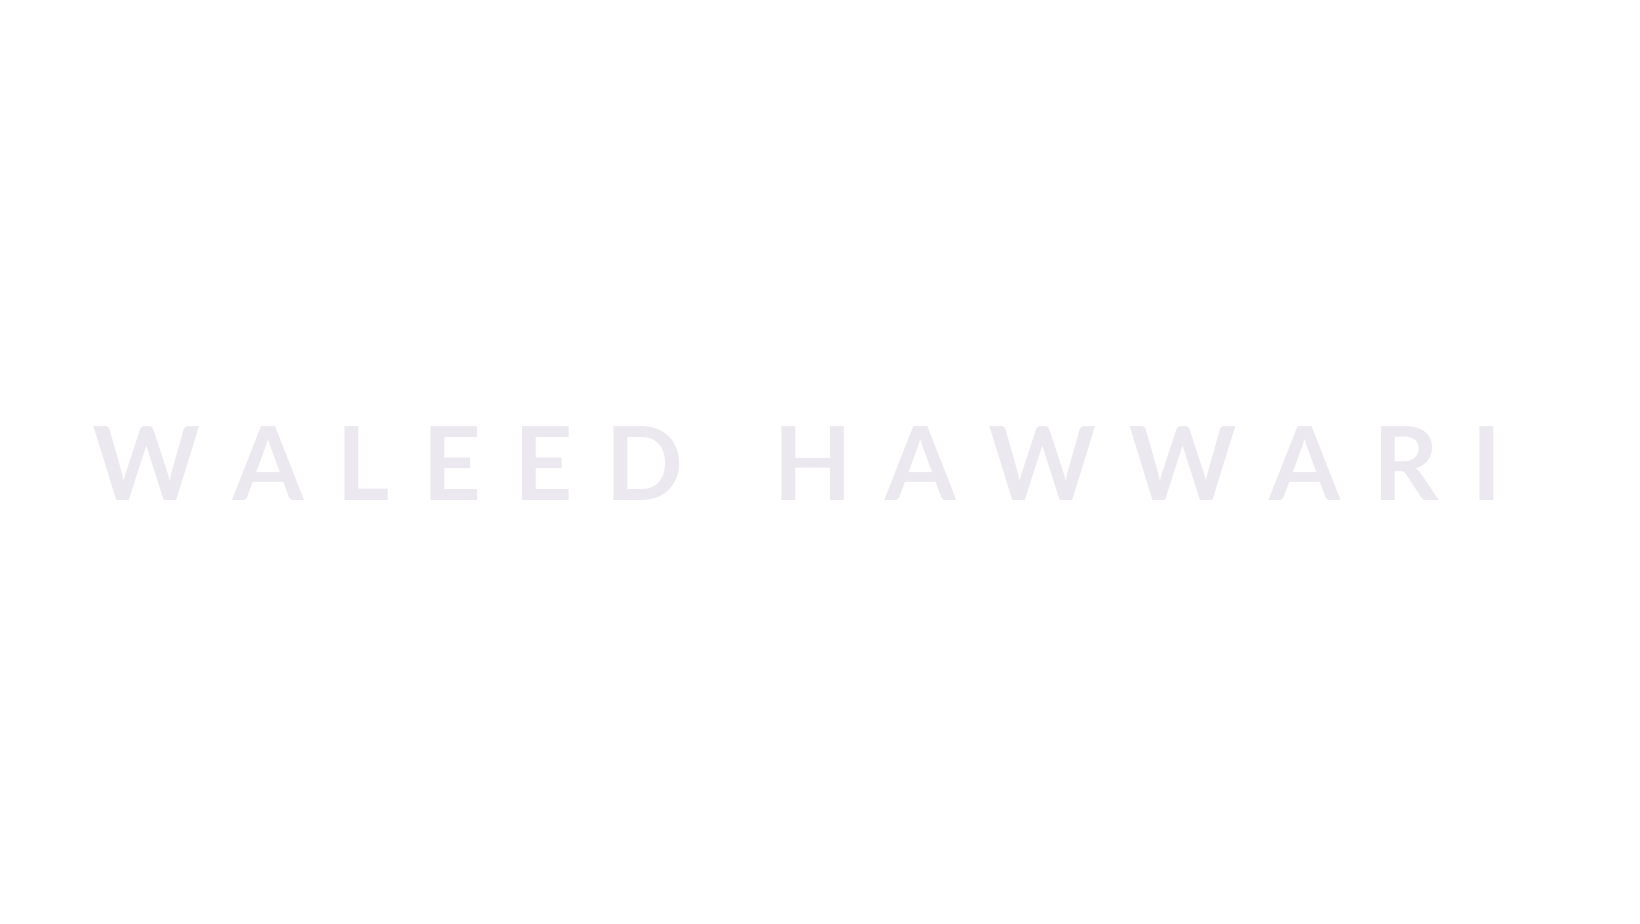
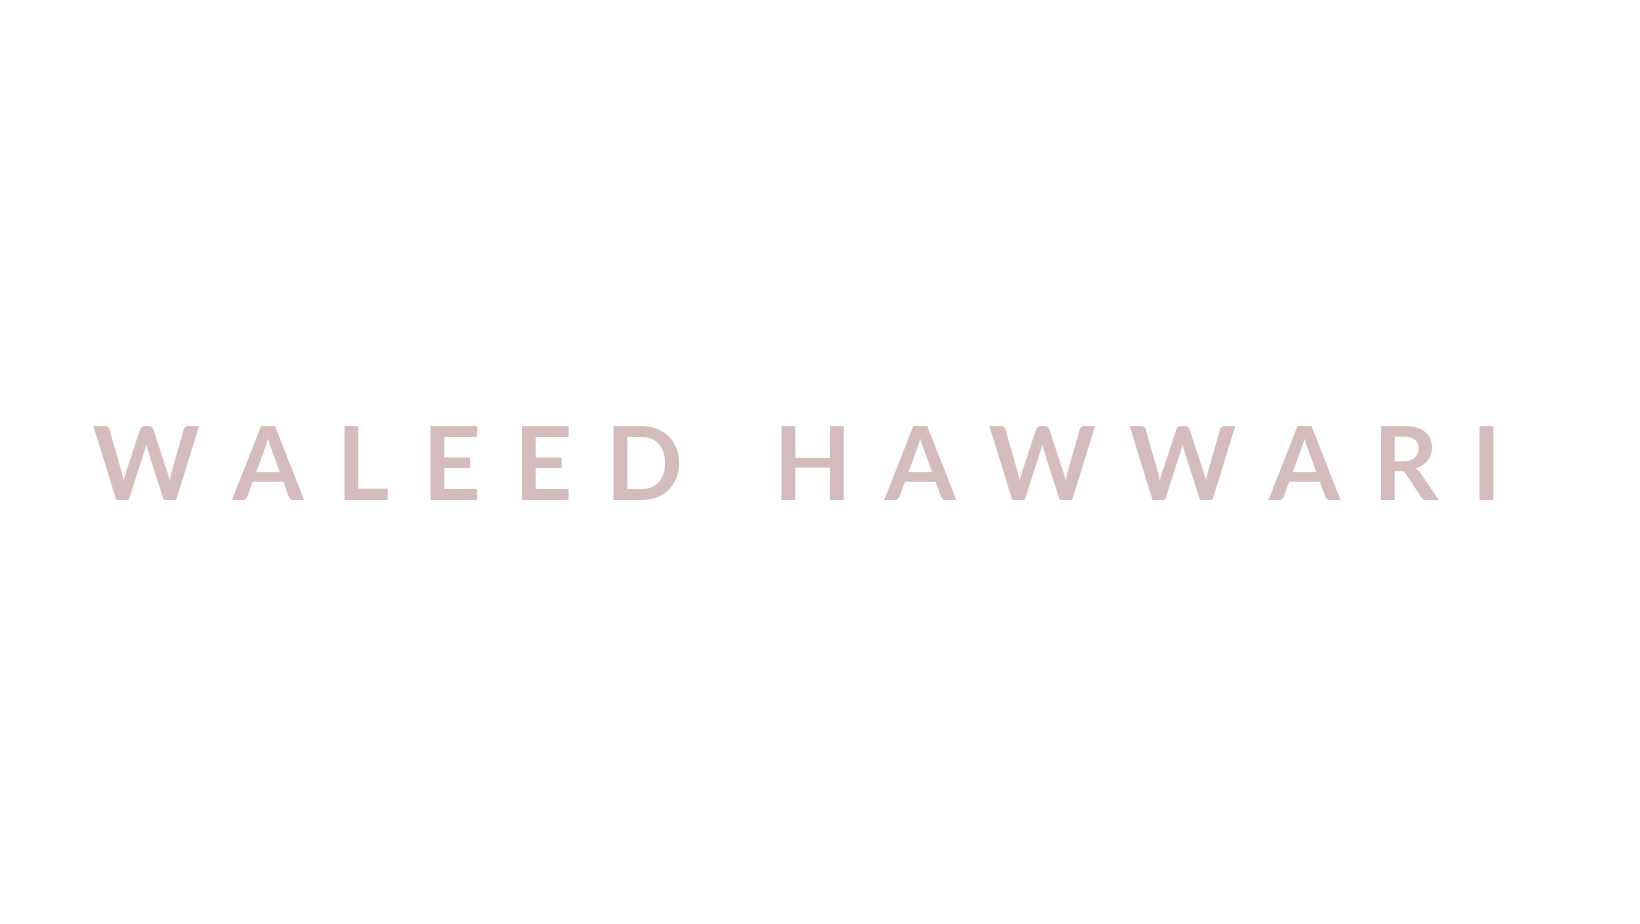
second update

diff --git a/src/components/Gallary/index.tsx b/src/components/Gallary/index.tsx
@@ -4,6 +4,10 @@ import SmartWE from '@/assets/img/SmartWe.png'
 import { SelectedPage } from "@/shared/types";
 import Expandable from "@/shared/Expanable";
 import gallary from "@/assets/img/Gallary.png";
+import useMediaQuery from '@/hooks/useMediaQuery'
+import Art_1 from "@/assets/img/Art_1.png"
+import Art_2 from "@/assets/img/Art_2.png"
+import Art_3 from "@/assets/img/Art_3.png"
 
 
 type Props={
@@ -11,33 +15,48 @@ type Props={
 };
 
 export const Gallary = ({setSelectedPage}:Props) => {
+    const isAboveMediumScreens = useMediaQuery("(min-width:1060px)");
   return (
-    <section id="gallary" className="bg-Paige mx-auto h-auto min-h-full w-full md:mt-96">
+    <section id="gallary" className="bg-Gray mx-auto h-auto min-h-full w-full md:mt-0">{/*add mt if you want space between gallary and home */}
 
-      <div className=" flex justify-center max-w-full h-auto ">         
-          <img className="object-cover h]" alt='Frame' src={gallary}/>
+      <div className=" flex justify-center max-w-full h-96 overflow-hidden">         
+          <img className="object-cover h-full w-fit" alt='Frame' src={gallary}/>
        </div>
 
       <motion.div onViewportEnter={() => setSelectedPage(SelectedPage.Gallary)}>
-      
-      <div className="flex-column mx-auto max-w-7xl h-full">
 
+      {/* transition */}
+{isAboveMediumScreens && (
+  
+  <div className="h-[450px] w-full">
+  <div className="mx-auto w-5/6">
+    <div className="flex items-center justify-between">
+              <img className = "h-[450px] py-6 " alt='Art_1' src={Art_1}/>
+              <img className = "h-[450px] py-4" alt='Art_2' src={Art_2}/>
+              <img className = "h-[450px] py-6" alt='Art_3' src={Art_3}/> 
+          </div> 
+      </div>
+  </div>
+)
+}
+      <div className="flex-column mx-auto max-w-7xl h-full bg-">
+        
+         {/* ABOUT ME  */}
         <div className="mb-20">
-
-    {/* ABOUT ME  */}
-          <Expandable headerText="About Me" headerClassName="text-5xl text-white text-center mx-auto ">
-            
+          <Expandable headerText="About Me" headerClassName="text-5xl text-white text-center mx-auto mt-8">
             {/*ABOUT ME PERSONAL */}
-        <div className="container mx-auto flex px-10 pt-20 md:flex-row flex-col items-center bg-PinkNude">
+        <div className="container mx-auto flex px-10 pt-20 md:flex-row flex-col items-center bg-white">
         <div className="lg:flex-grow md:w-1/2 lg:pr-24 md:pr-16 flex flex-col md:items-start md:text-left mb-16 md:mb-0 items-center text-center">
-          <h1 className="title-font sm:text-4xl text-3xl mb-4 font-medium text-white">
+          <h1 className="title-font sm:text-4xl text-3xl mb-4 font-medium text-Stone">
             Hi, I'm Waleed!  
             <br className="inline-block" /> Let me catch you up to date;
           </h1>
+
           <p className="mb-8 leading-relaxed">
           Where to begin... <br/> I am a passionate indivual who puts his all into what ever he starts. I enjoy working out, swimming and reading. My favourite book is <span className="text-white ">Still Mine</span> by Amy Stuart. 
-          I'm from <span className="text-red-600">Pal</span><span className="text-white">est</span><span className="text-green-500" >ine</span>, born in <span className="text-red-600 ">Can</span><span className="text-white">ada</span> . I developed my passion for Coding during Covid and ever since Ive been an addict. :).
+          I developed my passion for Coding during Covid and ever since Ive been an addict. :).
           </p> 
+
         </div>
         <div className="lg:max-w-lg lg:w-full md:w-1/2 w-5/6">
           <img
@@ -47,7 +66,7 @@ export const Gallary = ({setSelectedPage}:Props) => {
         </div>
       </div>
 {/*ABOUT ME PART 2 */}
-      <div className="container mx-auto flex px-10 pb-20 md:flex-row flex-col items-center bg-PinkNude ">
+      <div className="container mx-auto flex px-10 pb-20 md:flex-row flex-col items-center bg-white ">
         <div className="lg:max-w-lg lg:w-full md:w-1/2 w-5/6">
             <img
               className="object-cover object-center rounded-3xl"
@@ -68,37 +87,38 @@ export const Gallary = ({setSelectedPage}:Props) => {
 
     {/* CAREERS  */}
      <div className="mb-20">
-      <Expandable headerText="Careers" headerClassName="text-5xl text-white text-center mx-auto">
-        <div className="h-auto relative flex flex-col items-center bg-PinkNude rounded-3xl">
+      <Expandable headerText="Careers" headerClassName="text-5xl text-white text-center mx-auto mb-4">
+        <div className="h-auto relative flex flex-col items-center bg-white rounded-3xl">
+
           {/* Row for Image 1 and Image 3 */}
-          <div className="flex w-full justify-between items-start">
+          <div className="flex w-full justify-between items-start m-3">
+
             {/* Image 1 Hover */}
+            <div className="relative m-4 ">
+              <img src={FunWE} alt="FunWe.png" className="h-96 rounded-3xl"/>
+              <div className="hover-text absolute inset-0 bg-black bg-opacity-70 text-white p-4 overflow-y-auto opacity-0 hover:opacity-100 transition-opacity duration-300 rounded-3xl">
+                Lorem ipsum dolor sit amet, consectetur adipiscing elit, sed do eiusmod tempor incididunt ut labore et dolore magna aliqua...
+              </div>
+            </div>
+
+            {/* Image 2 Hover */}
             <div className="relative m-4">
-              <img src={FunWE} alt="FunWe.png" className="h-96"/>
-              <div className="hover-text absolute inset-0 bg-black bg-opacity-70 text-white p-4 overflow-y-auto opacity-0 hover:opacity-100 transition-opacity duration-300">
+              <img src={FunWE} alt="FunWe.png" className="h-96 rounded-3xl"/>
+              <div className="hover-text absolute inset-0 bg-black bg-opacity-70 text-white p-4 overflow-y-auto opacity-0 hover:opacity-100 transition-opacity duration-300 rounded-3xl">
                 Lorem ipsum dolor sit amet, consectetur adipiscing elit, sed do eiusmod tempor incididunt ut labore et dolore magna aliqua...
               </div>
             </div>
 
             {/* Image 3 Hover */}
             <div className="relative m-4">
-              <img src={FunWE} alt="FunWe.png" className="h-96"/>
-              <div className="hover-text absolute inset-0 bg-black bg-opacity-70 text-white p-4 overflow-y-auto opacity-0 hover:opacity-100 transition-opacity duration-300">
+              <img src={FunWE} alt="FunWe.png" className="h-96 rounded-3xl"/>
+              <div className="hover-text absolute inset-0 bg-black bg-opacity-70 text-white p-4 overflow-y-auto opacity-0 hover:opacity-100 transition-opacity duration-300 rounded-3xl">
                 Lorem ipsum dolor sit amet, consectetur adipiscing elit, sed do eiusmod tempor incididunt ut labore et dolore magna aliqua...
               </div>
             </div>
           </div>
 
-          {/* Thick Horizontal Line */}
-          <div className="w-full bg-gray-800 h-2 my-4 relative"></div>
-        
-            {/* Image 2 Hover */}
-            <div className="relative m-4">
-              <img src={FunWE} alt="FunWe.png" className="h-96"/>
-              <div className="hover-text absolute inset-0 bg-black bg-opacity-70 text-white p-4 overflow-y-auto opacity-0 hover:opacity-100 transition-opacity duration-300">
-                Lorem ipsum dolor sit amet, consectetur adipiscing elit, sed do eiusmod tempor incididunt ut labore et dolore magna aliqua...
-              </div>
-            </div>
+         
 
         </div>
       </Expandable>
@@ -109,12 +129,10 @@ export const Gallary = ({setSelectedPage}:Props) => {
           <Expandable headerText="Community" headerClassName="text-5xl text-white text-center mx-auto">
           <div className="container mx-auto flex px-10 pt-20 md:flex-row flex-col items-center">
           <p> This is still undergoing Maintenance, check back soon to discover the mystery of my impact on the Community</p>
-
           </div>
           </Expandable>
+
         </div>
-
-
       </div>
       </motion.div>     
     </section>

diff --git a/src/components/Home/index.tsx b/src/components/Home/index.tsx
@@ -1,25 +1,19 @@
 import { SelectedPage } from '@/shared/types'
-import useMediaQuery from '@/hooks/useMediaQuery'
+// import useMediaQuery from '@/hooks/useMediaQuery'
 import Spline from "@splinetool/react-spline";
 import MainTitle from "@/assets/img/MainTitle.png"
 import ActionButton from '@/shared/ActionButton';
-import Art_1 from "@/assets/img/Art_1.png"
-import Art_2 from "@/assets/img/Art_2.png"
-import Art_3 from "@/assets/img/Art_3.png"
-
 
 type Props = {
     setSelectedPage: (value: SelectedPage) => void;
 }
 
 const Home = ({setSelectedPage} : Props) => {
-        const isAboveMediumScreens = useMediaQuery("(min-width:1060px)");
+        // const isAboveMediumScreens = useMediaQuery("(min-width:1060px)");
 
  
 return ( 
     <section id="home" className="gap-16 md:h-screen md:pb-0">
-
-     {/* <Spline scene="https://prod.spline.design/GQfziXu2UbXaschG/scene.splinecode" /> */}
 
     {/*image and main header*/}
     <div className='md:flex mx-auto w-5/6 h-full items-center justify-center md:h-5/6'>
@@ -29,7 +23,7 @@ return (
             <div className='md:-mt-20'>
                 <div className="relative">
                     <div className='before:absolute before:-top-80 before:-left-60 before:z-[-1] before:-top-80px md:before:content-MainTT'>
-                        <img  className="" alt="MainTitle" src={MainTitle}/>
+                        <img  className="h-auto" alt="MainTitle" src={MainTitle}/>
                     </div>
                 </div>
             <p className='mt-8 text-lg'> "Success is not final, failure is not fatal: It is the courage to continue that counts." <br/> <br/> - Winston Churchill </p>
@@ -51,26 +45,25 @@ return (
         
     
 {/*image*/}
-<div className="z-10 md:z-10; md:ml-40 md:mt-16 md:justify-items-end md:h-3/5 md:w-3/5">
-    {/* <img alt="Placeholder" src={PlaceHolder}/> */}
+<div className="z-10 md:z-10; md:ml-40 md:mt-16 md:justify-items-end md:h-3/5 md:w-3/5 ">
     <Spline scene="https://prod.spline.design/l1M2Zxypra5uUpTB/scene.splinecode"/>
 </div>
 </div>
 
 {/* transition */}
-{isAboveMediumScreens && (
+{/* {isAboveMediumScreens && (
   
     <div className="h-[450px] w-full bg-Gray mt-28">
     <div className="mx-auto w-5/6">
       <div className="flex items-center justify-between">
-                <img className = "h-[450px] py-6 mt-6" alt='Art_1' src={Art_1}/>
-                <img className = "h-[450px] py-4 mt-6" alt='Art_2' src={Art_2}/>
-                <img className = "h-[450px] py-6 mt-6" alt='Art_3' src={Art_3}/> 
+                <img className = "h-[450px] py-6 " alt='Art_1' src={Art_1}/>
+                <img className = "h-[450px] py-4" alt='Art_2' src={Art_2}/>
+                <img className = "h-[450px] py-6" alt='Art_3' src={Art_3}/> 
             </div> 
         </div>
     </div>
  )
-}
+} */}
   </section>
 
 )

diff --git a/src/components/Navbar/Index.tsx b/src/components/Navbar/Index.tsx
@@ -21,13 +21,13 @@ const Navbar = ({ isTopOfPage, selectedPage, setSelectedPage }: Props) => {
     //remove fixed top 0 cause it causes it to stay as you scroll. 
   return (
   <nav>
-    <div className={`${navbarbackground} {flexBetween} relative top-0 z-30 w-full py-6 bg-Blood`}>
+    <div className={`${navbarbackground} {flexBetween} relative top-0 z-30 w-full py-6 bg-Stone`}>
         <div className={`${flexBetween} mx-auto w-5/6`}>
            <div className={`${flexBetween} w-full gap-16`}>
 
              {/*leftside*/}
-            <img alt="logo" width={100} height={100} src={logo} />
-
+            {/* <img alt="logo" width={100} height={100} src={logo} /> */}
+            <div className="text-white ">Waleed</div>
 
             {/*rightside*/}
             {isAboveMediumScreens ? (
@@ -36,9 +36,8 @@ const Navbar = ({ isTopOfPage, selectedPage, setSelectedPage }: Props) => {
                     <Link page="Home" selectedPage={selectedPage} setSelectedPage={setSelectedPage}/>
                         <Link page="Gallary" selectedPage={selectedPage} setSelectedPage={setSelectedPage}/>
                             {/* <Link page="Contact" selectedPage={selectedPage} setSelectedPage={setSelectedPage}/> */}
-                           
                             <ResumeLink>{/*Fix this link and make it better */}
-                                <span className="text-black hover:text-LPink">Resume</span>
+                                <span className="text-white hover:text-Maroon">Resume</span>
                             </ResumeLink>
 
                     </div>

diff --git a/src/App.tsx b/src/App.tsx
@@ -4,6 +4,7 @@ import { SelectedPage } from "./shared/types";
 import Home from "@/components/Home";
 import Gallary from "./components/Gallary";
 import Footer from "@/components/Footer/Index";
+import Contact from "./components/Contact";
 
 
 
@@ -25,24 +26,30 @@ const [selectedPage, setSelectedPage] = useState<SelectedPage>(SelectedPage.Home
 
   return ( 
 
-  <div className="app bg-Paige h-full">
+  <div className="app bg-white h-full">
   <Navbar 
   selectedPage={selectedPage} 
   setSelectedPage={setSelectedPage}
   isTopOfPage={isTopOfPage}
   />
 
-<div className=" bg-Paige">
+<div className=" bg-">
   <Home setSelectedPage={setSelectedPage}/>
 </div>
  
-  <div className=" bg-Paige relative">
+  <div className=" bg- relative">
     <Gallary setSelectedPage={setSelectedPage}/>
   </div>
   
 
- <div className=" bg-Paige absolute">
+ <div className=" bg- absolute">
  <Footer
+  setSelectedPage={setSelectedPage}/>
+</div>
+
+
+<div className=" bg- absolute">
+ <Contact
   setSelectedPage={setSelectedPage}/>
 </div>
 

diff --git a/src/shared/Expanable.tsx b/src/shared/Expanable.tsx
@@ -20,7 +20,7 @@ const Expandable: React.FC<ExpandableProps & { className?: string, headerClassNa
   return (
     <div className={`collapsible ${className || ''}`}>
       <div
-        className={`header bg-black rounded-xl w-64 hover:bg-gray ${headerClassName || ''} hover:scale-150 hover:text-PinkNude transition-transform duration-300`}
+        className={`header bg-black rounded-xl w-64 hover:bg-gray ${headerClassName || ''} hover:scale-150 hover:text-LPink transition-transform duration-300`}
         style={headerStyle}
         {...getToggleProps()}
       >

diff --git a/src/shared/ActionButton.tsx b/src/shared/ActionButton.tsx
@@ -11,7 +11,7 @@ type Props = {
 const ActionButton = ({ children, setSelectedPage }: Props) => {
   return (
     <AnchorLink 
-    className="rounded-md bg-white text-black px-10 py-2 hover:bg-Gray hover:text-Blood"
+    className="rounded-md bg-Stone text-white px-10 py-2 hover:bg-Maroon hover:text-white"
     onClick={()=> setSelectedPage(SelectedPage.Gallary)}
     href={`#${SelectedPage.Gallary}`}>
 

diff --git a/src/components/Navbar/link.tsx b/src/components/Navbar/link.tsx
@@ -17,8 +17,8 @@ const link =({
 
   return (
     <AnchorLink 
-    className={`${selectedPage === lowerCasePage ? "text-LPink" : "text-black"}
-  transistion duration-500 hover:text-LPink`}
+    className={`${selectedPage === lowerCasePage ? "text-Maroon" : "text-white"}
+  transistion duration-500 hover:text-Maroon`}
 
     href={`#${lowerCasePage}`}
     onClick={() => setSelectedPage(lowerCasePage)}

diff --git a/src/components/Contact/index.tsx b/src/components/Contact/index.tsx
@@ -1,0 +1,18 @@
+import { SelectedPage } from "@/shared/types";
+
+
+type Props={
+    setSelectedPage: (value:SelectedPage) => void
+  };
+
+  
+const Contact = ({setSelectedPage}:Props) => {
+    return (
+   <div>
+
+    TODO: add Contact stuff here 
+   </div>
+  );
+};
+
+export default Contact;

diff --git a/tailwind.config.js b/tailwind.config.js
@@ -21,6 +21,8 @@ export default {
        "Gray":"#414141",
        "DPaige":"#D0C9B5",
        "LPink":"#EADAD0",
+       "Stone":"#1F1E1C",
+       "Maroon":"#800000",
       },
       
 backgroundImage: (theme) => ({
